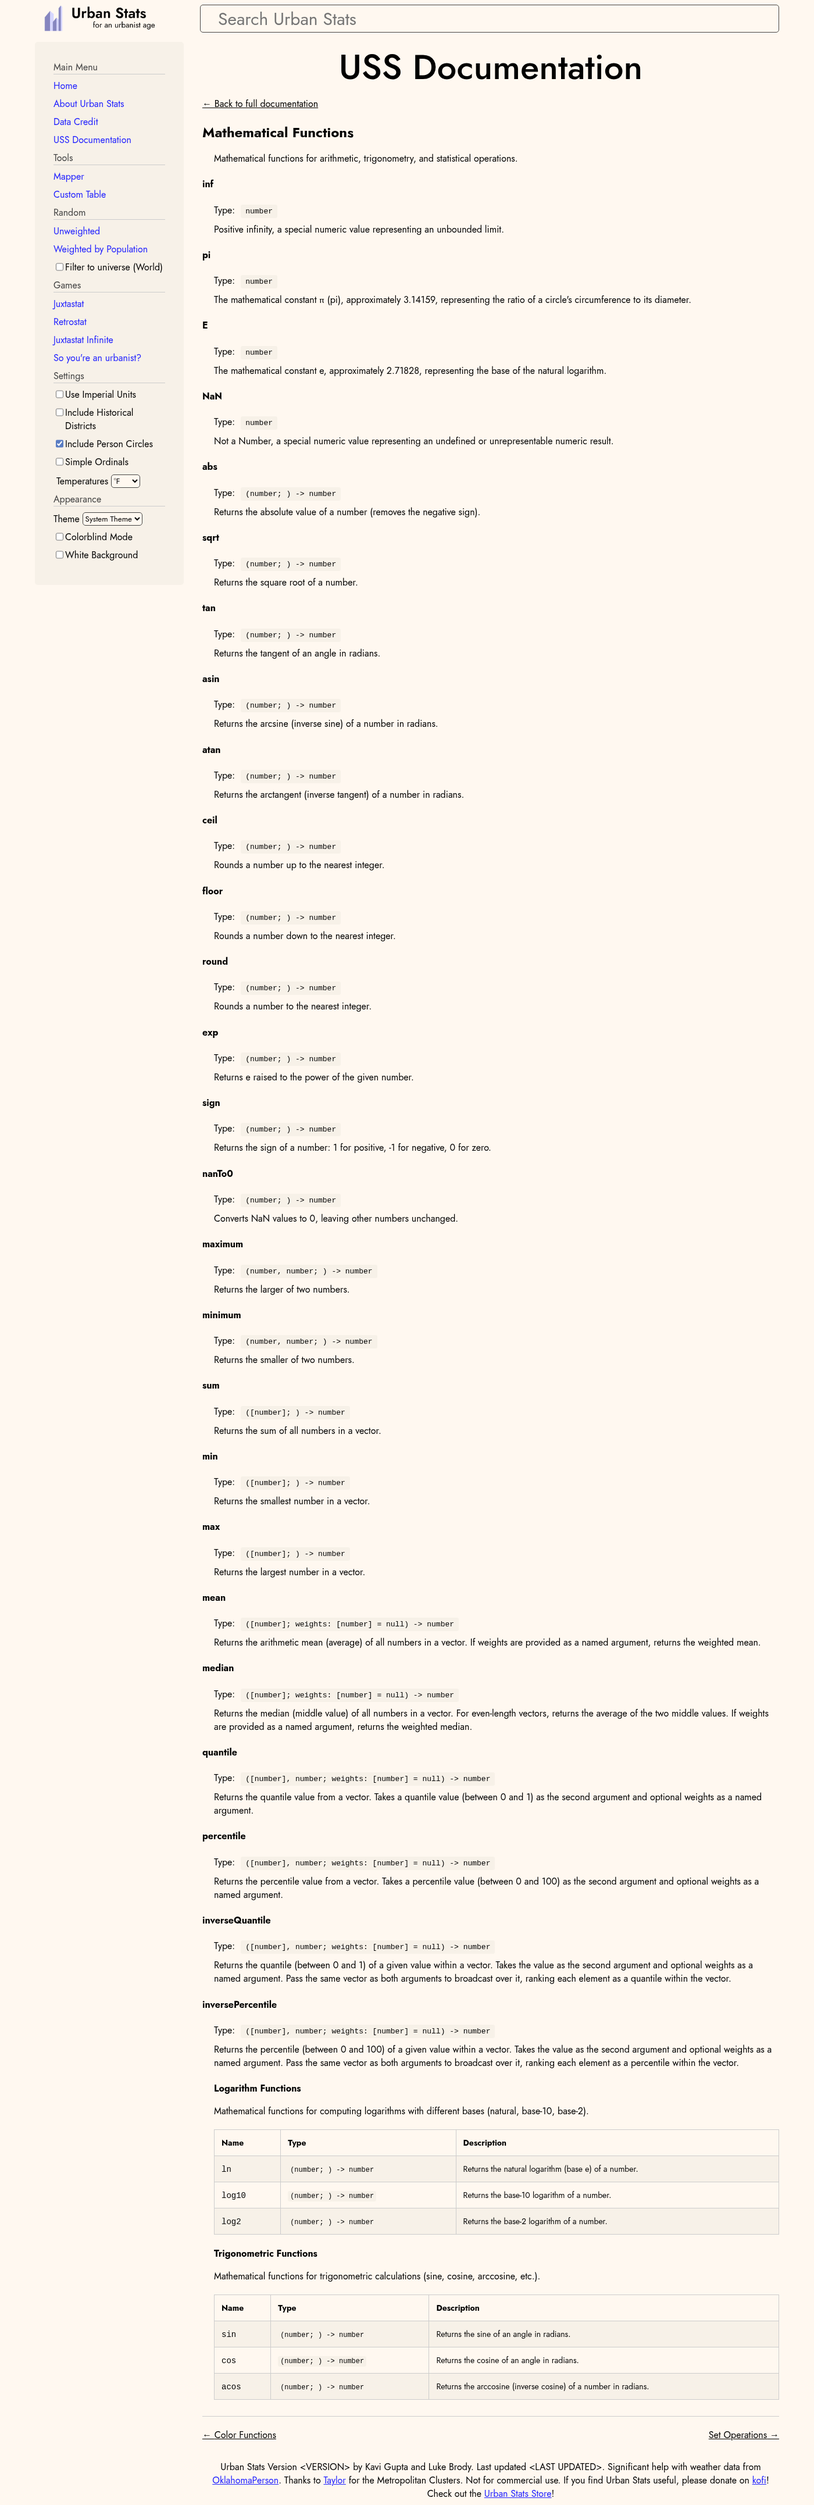
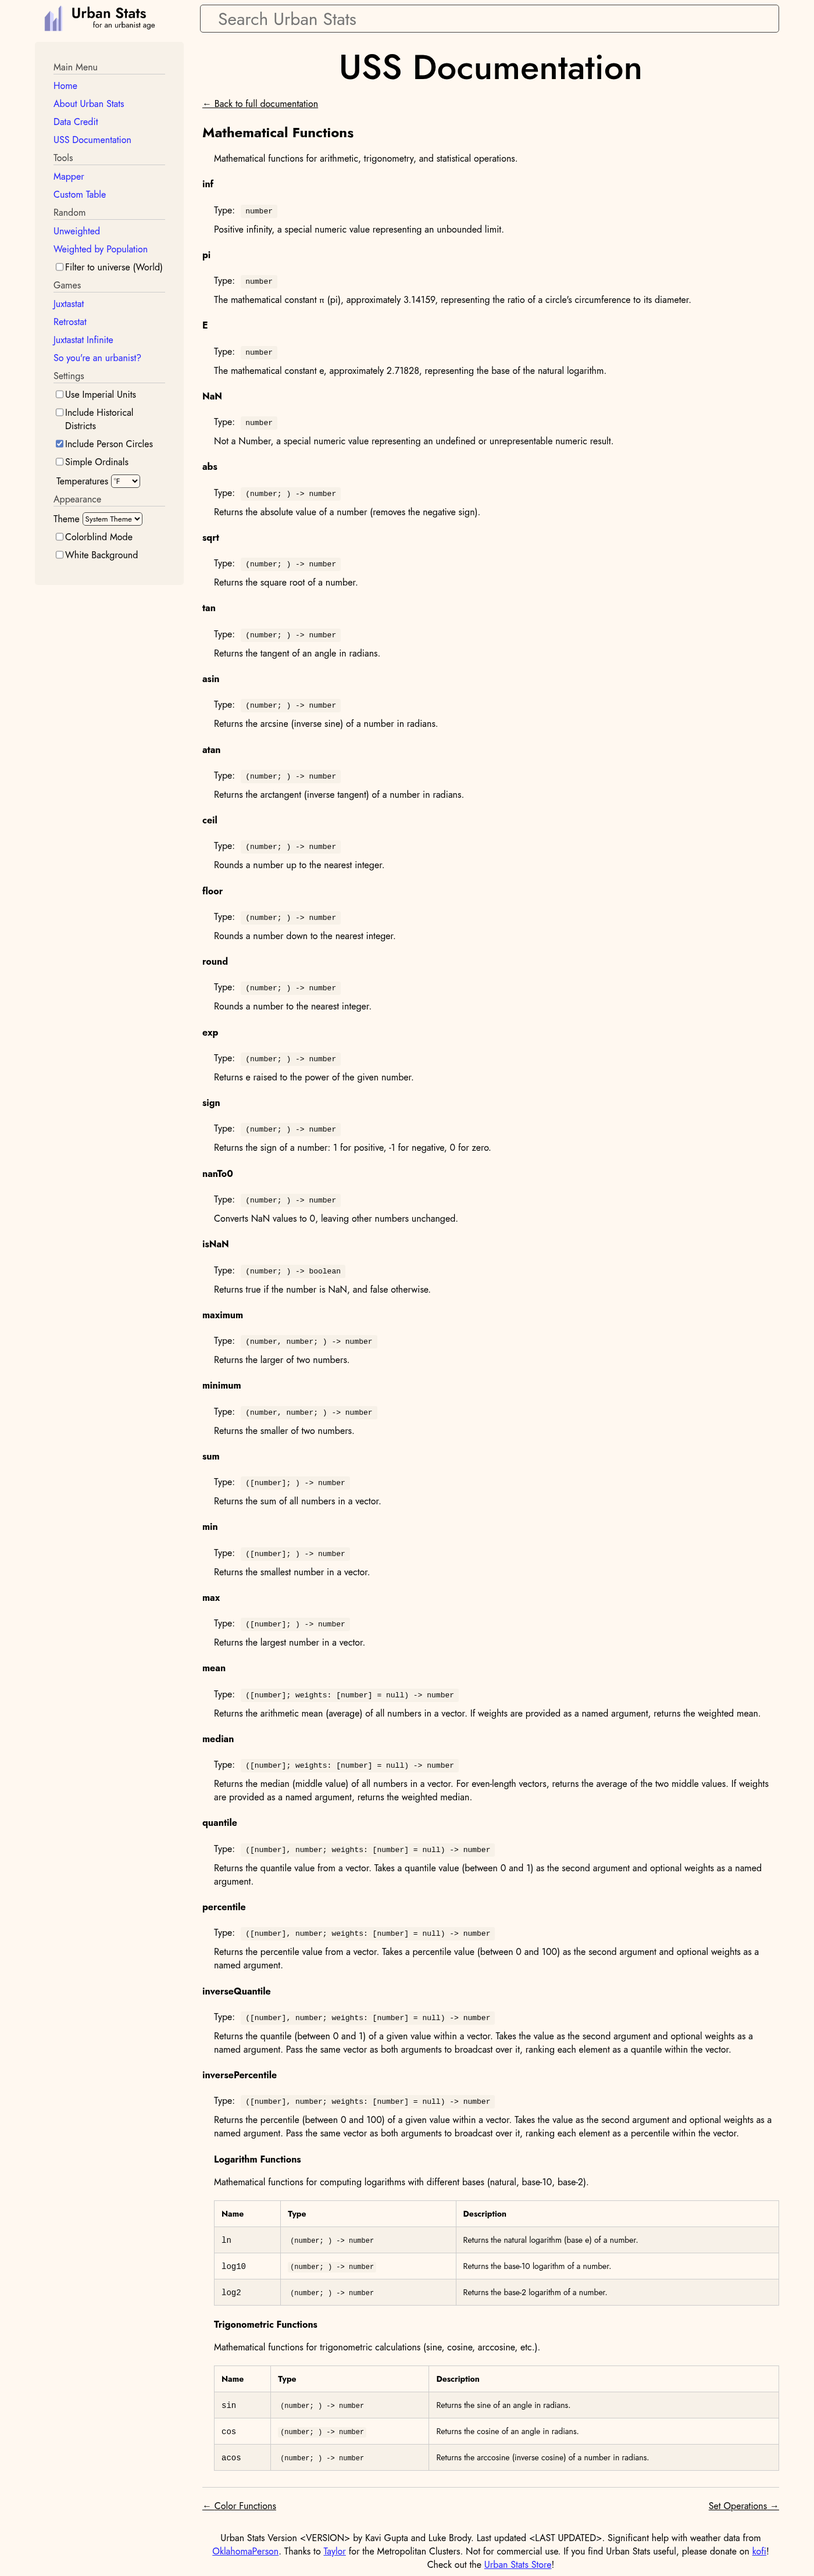
Add a USS isNaN function (#2445)
USS had no way to test a number for NaN: `nanTo0` replaces it, and `x ==
NaN` is always false, so a script branching on missing data had to
substitute a sentinel first.

Written inline rather than behind a factory, since it is the only
number-to-boolean function.

🤖 Generated with [Claude Code](https://claude.com/claude-code)

---------

diff --git a/react/src/urban-stats-script/constants/constants.ts b/react/src/urban-stats-script/constants/constants.ts
@@ -245,6 +245,15 @@ export const defaultConstants: Constants = new Map<string, USSValue>([
     createNumberToNumberFunction('exp', Math.exp, 'exp', { kind: 'number' }, 'Returns e raised to the power of the given number.'),
     createNumberToNumberFunction('sign', Math.sign, 'sign', { kind: 'number' }, 'Returns the sign of a number: 1 for positive, -1 for negative, 0 for zero.'),
     createNumberToNumberFunction('nanTo0', (x: number) => isNaN(x) ? 0 : x, 'NaN to Zero', { kind: 'unchanged', unknownTimes: true }, 'Converts NaN values to 0, leaving other numbers unchanged.'),
+    ['isNaN', {
+        type: { type: 'function', posArgs: [{ type: 'concrete', value: { type: 'number' } }], namedArgs: {}, returnType: { type: 'concrete', value: { type: 'boolean' } } },
+        value: (ctx: Context, posArgs: USSRawValue[]) => isNaN(posArgs[0] as number),
+        documentation: {
+            humanReadableName: 'is NaN',
+            category: 'math',
+            longDescription: 'Returns true if the number is NaN, and false otherwise.',
+        },
+    }] satisfies [string, USSValue],
     createTwoNumberToNumberFunction('maximum', Math.max, 'max', { kind: 'either' }, 'Returns the larger of two numbers.'),
     createTwoNumberToNumberFunction('minimum', Math.min, 'min', { kind: 'either' }, 'Returns the smaller of two numbers.'),
     createVectorToNumberFunction('sum', values => values.reduce((a, b) => a + b, 0), 0, 'sum', { kind: 'unchanged', unknownTimes: true }, 'Returns the sum of all numbers in a vector.'),

diff --git a/react/unit/urban-stats-script-evaluate.test.ts b/react/unit/urban-stats-script-evaluate.test.ts
@@ -924,6 +924,10 @@ void test('constants', (): void => {
         undocValue([2, 3, 4, NaN], numVectorType),
     )
     assert.deepStrictEqual(
+        evaluate(parseExpr('isNaN([1, 0 / 0, inf, NaN])'), emptyContext()),
+        undocValue([false, true, false, true], { type: 'vector', elementType: boolType }),
+    )
+    assert.deepStrictEqual(
         evaluate(parseExpr('toNumber([1, 2, 3] == 2)'), emptyContext()),
         undocValue([0, 1, 0], numVectorType),
     )

diff --git a/react/unit/urban-stats-script-constants.test.ts b/react/unit/urban-stats-script-constants.test.ts
@@ -152,6 +152,9 @@ void test('constant listing', (): void => {
             '(string, string; ) -> boolean': [
                 'matchesRegex',
             ],
+            '(number; ) -> boolean': [
+                'isNaN',
+            ],
 
             '(any; ) -> number': [
                 'toNumber',
